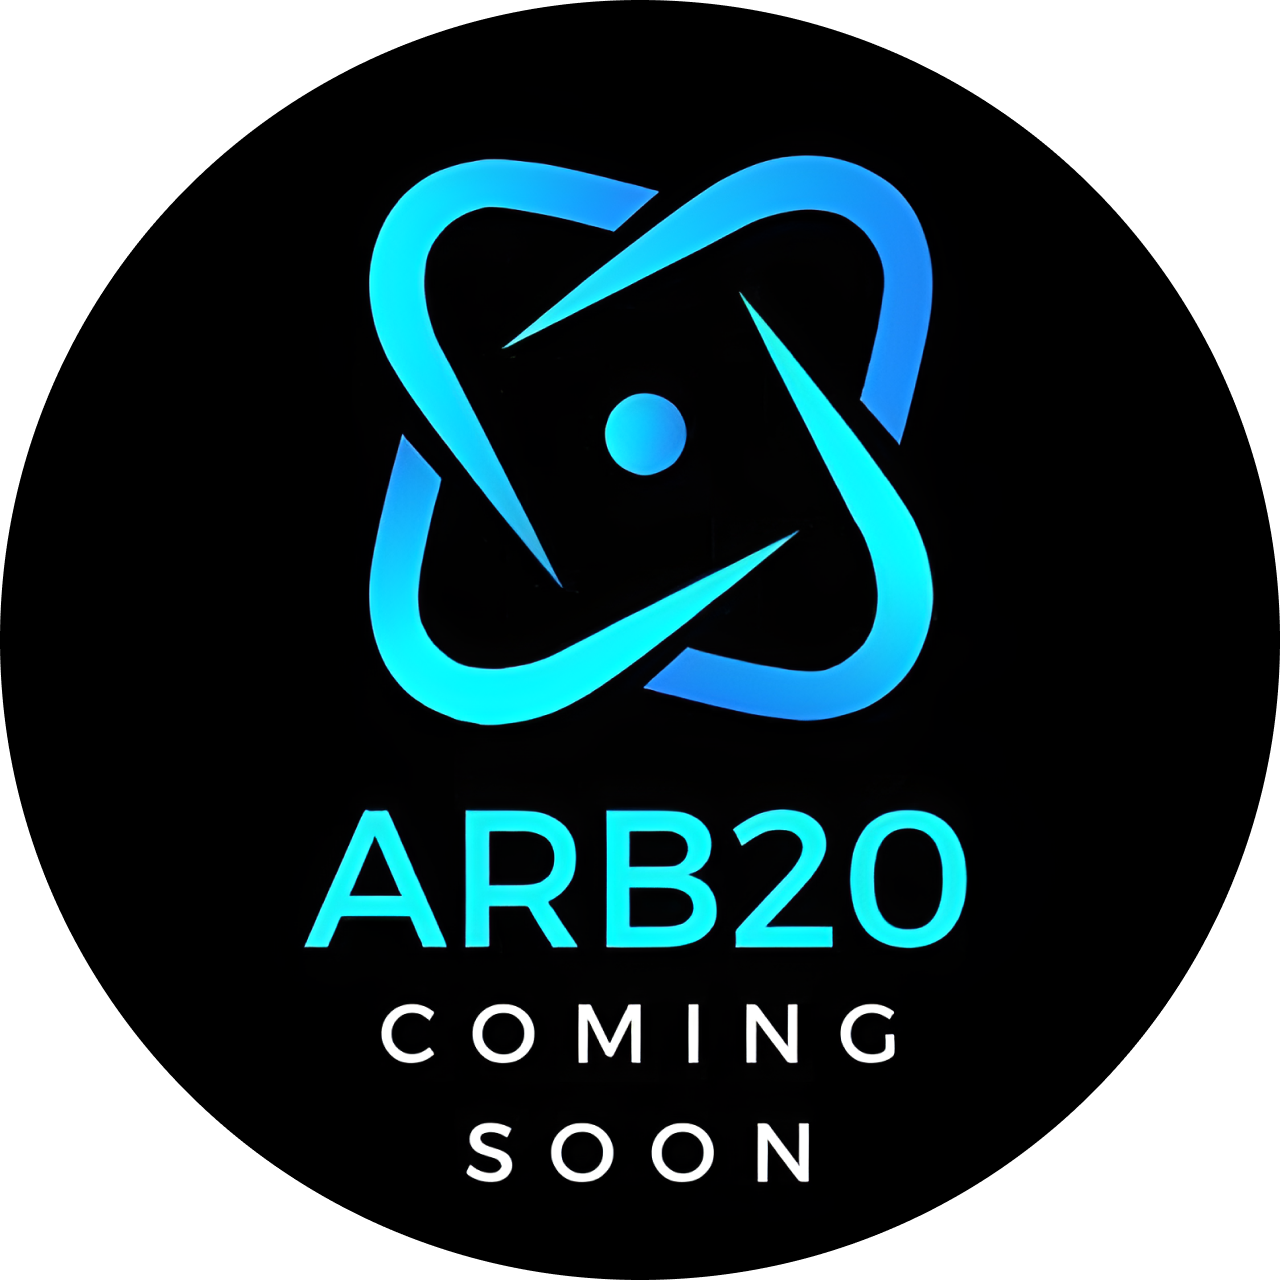
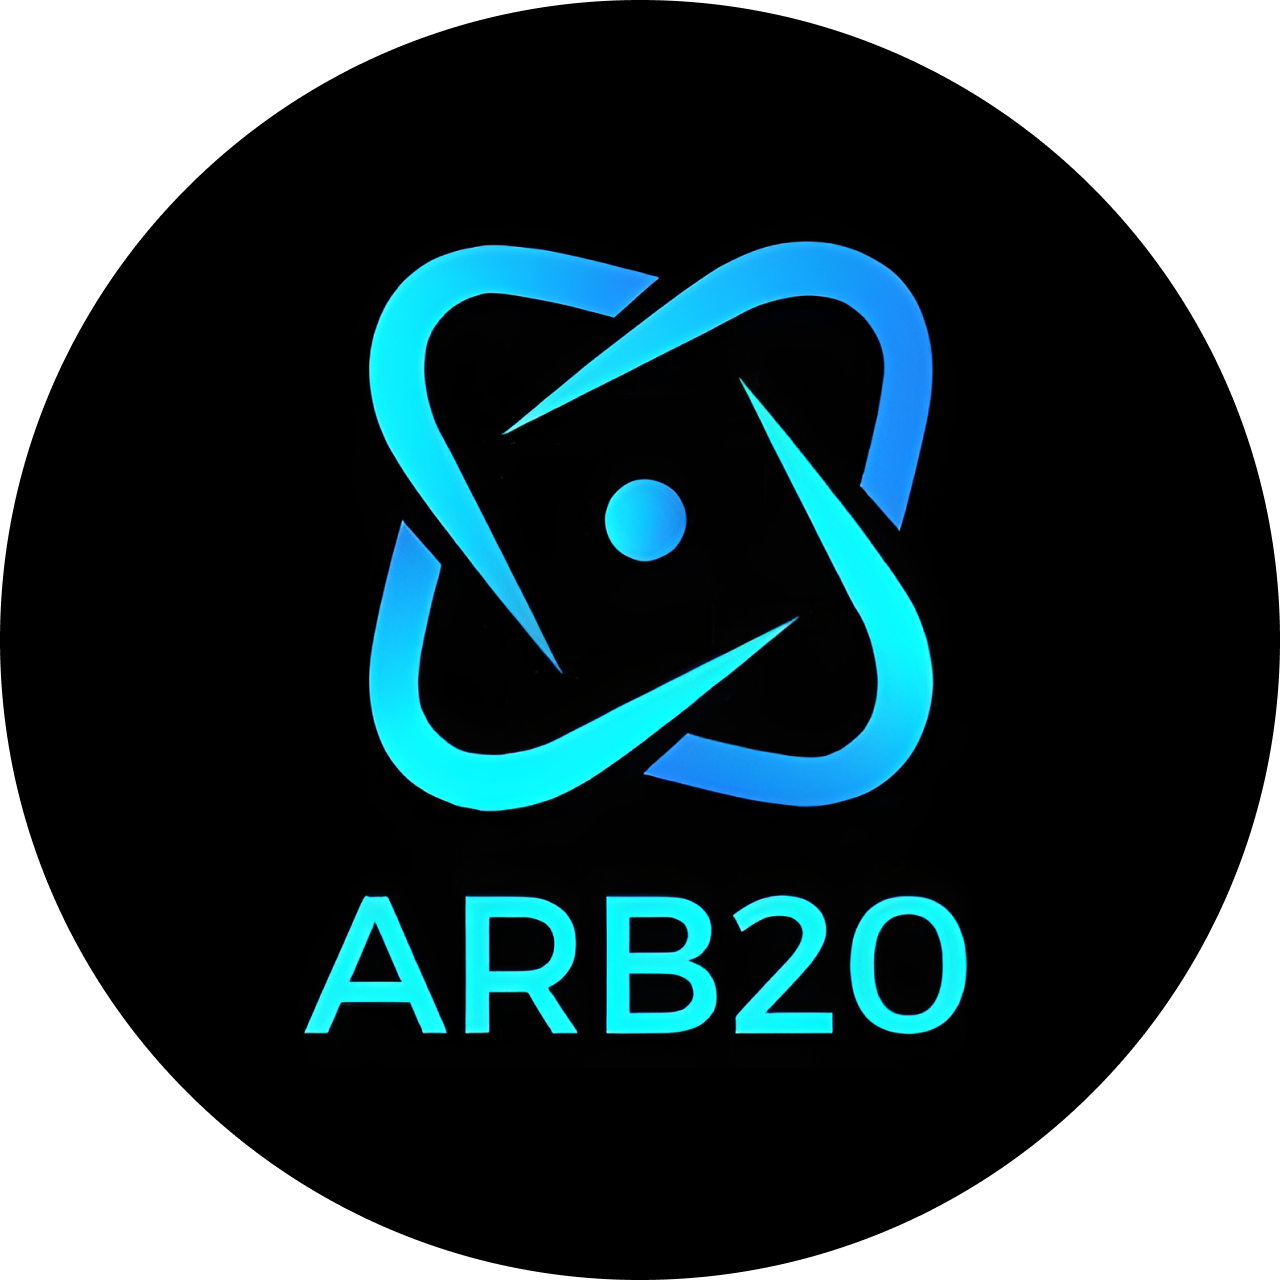
調整bug，跟改圖

Changed region(s): [[0.2188, 0.0938, 0.7812, 0.8438], [0.3438, 0.875, 0.5625, 0.9375], [0.5938, 0.875, 0.6562, 0.9375]]

diff --git a/index.html b/index.html
@@ -85,7 +85,7 @@
 																<a href="https://x.com/arbsswap">TWITTER</a>
 															</li>
 															<li class="menu-item menu-item-type-custom menu-item-object-custom menu-item-10 Alert_comming_soon" id="menu-item-10">
-																<a class="Alert_comming_soon" href="##">arb20 market</a>
+																<a href="##">arb20 market</a>
 															</li>
 														</ul>
 													</div>
@@ -132,7 +132,7 @@
 																					<a href="https://x.com/arbsswap">TWITTER</a>
 																				</li>
 																				<li class="menu-item menu-item-type-custom menu-item-object-custom menu-item-10 Alert_comming_soon" id="menu-item-10">
-																					<a class="Alert_comming_soon" href="##">arb20 market</a>
+																					<a href="##">arb20 market</a>
 																				</li>
 																			</ul>
 																		</div>
@@ -362,7 +362,7 @@
 				</div>
 			</div>
 		</div> -->
-		<div class="wp-block wp-block-kubio-footer position-relative wp-block-kubio-footer__container style-qPjFIdF0Y-container style-local-54-container" data-kubio="kubio/footer" data-kubio-component="footer-parallax" data-kubio-settings="{&quot;isEnabled&quot;:false}">
+		<!-- <div class="wp-block wp-block-kubio-footer position-relative wp-block-kubio-footer__container style-qPjFIdF0Y-container style-local-54-container" data-kubio="kubio/footer" data-kubio-component="footer-parallax" data-kubio-settings="{&quot;isEnabled&quot;:false}">
 			<div class="wp-block wp-block-kubio-section position-relative wp-block-kubio-section__outer style-vP0mYzy99sE-outer style-local-55-outer d-flex h-section-global-spacing align-items-lg-center align-items-md-center align-items-center" data-kubio="kubio/section" id="footer">
 				<div class="background-wrapper">
 					<div class="background-layer background-layer-media-container-lg"></div>
@@ -395,7 +395,7 @@
 					</div>
 				</div>
 			</div>
-		</div>
+		</div> -->
 	</div>
 	<style id="skip-link-styles">
 	       .skip-link.screen-reader-text {
